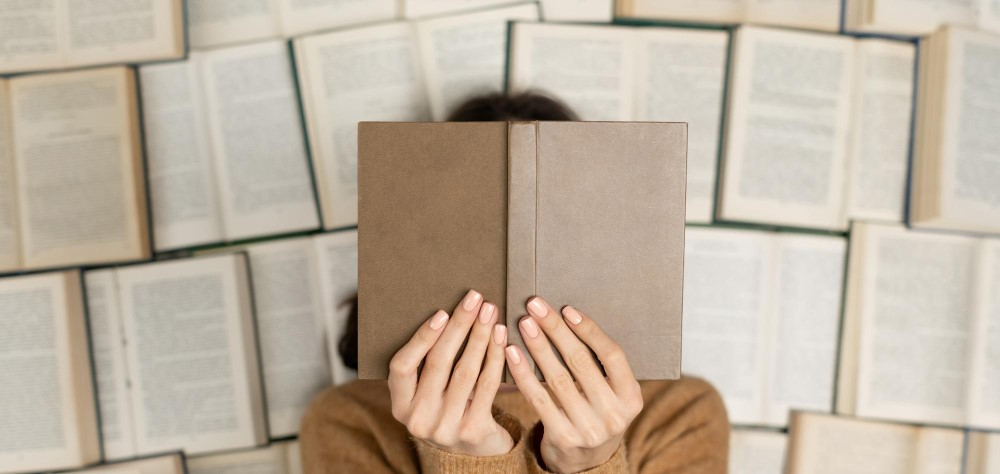
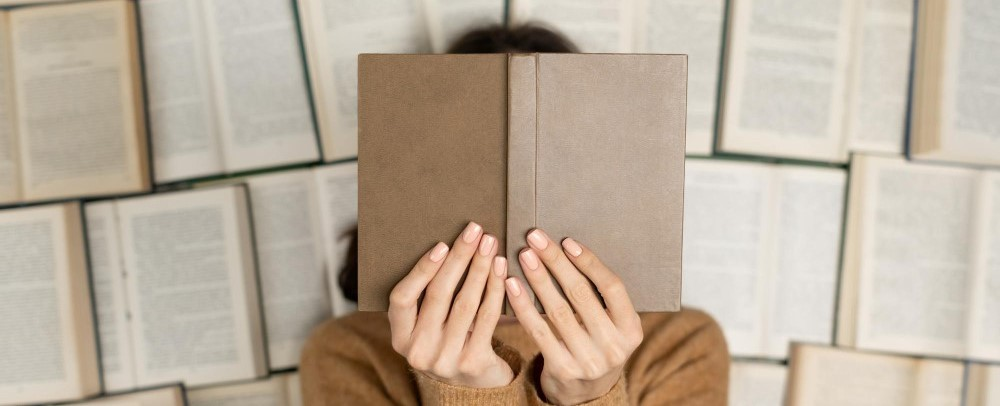
delete img

diff --git a/index.html b/index.html
@@ -30,7 +30,7 @@
               </button>
               <div class="offcanvas offcanvas-end" tabindex="-1" id="offcanvasDarkNavbar" aria-labelledby="offcanvasDarkNavbarLabel">
                 <div class="offcanvas-header">
-                  <h5 class="offcanvas-title" id="offcanvasDarkNavbarLabel">Menú</h5>
+                  <h6>Menú</h6>
                   <button type="button" class="btn-close" data-bs-dismiss="offcanvas" aria-label="Close"></button>
                 </div>
                 <div class="offcanvas-body">
@@ -66,9 +66,7 @@
     </div>
         <section id="portada">
             <p class="cuerpo" >Hermenéutica de un recuerdo es historia, experiencia, sentires y emociones. <br>
-                Es todo lo que va por dentro, como un río de lava, que hoy busca la salida, que busca expresarse, mostrarse.</p>
-                <p class="cuerpo">Es el mundo de una escritora escondida, en lo suburbano, que conoce tantos lugares que fueron creados con las palabras, los recuerdos y la imaginación. </p>
-                <p class="cuerpo">Te invitamos a descubrir su mundo, su poesia y su historia.</p>
+                Es todo lo que va por dentro, como un río de lava, que hoy busca la salida, que busca expresarse, mostrarse. Es el mundo de una escritora escondida, en lo suburbano, que conoce tantos lugares que fueron creados con las palabras, los recuerdos y la imaginación. <br>Te invitamos a descubrir su mundo, su poesia y su historia.</p>
         </section>
     
     <!--BREVE PRESENTACION DE LA AUTORA-->

diff --git a/css/style.css b/css/style.css
@@ -50,8 +50,18 @@ header .barraNav1 {
   color: #FF8551;
   font-family: jost-regular;
   font-size: 40px;
+  font-weight: bold;
   padding: 5px;
   margin: 5px;
+}
+header h6 {
+  color: #FF8551;
+  font-family: jost-regular;
+  font-size: 30px;
+  font-weight: bold;
+  text-align: center;
+  margin: 15px;
+  padding-left: 125px;
 }
 header .barraNav {
   text-decoration: none;
@@ -149,19 +159,14 @@ header .barraNav:hover {
 }
 
 .banner img {
-  width: 100vw;
-  height: 600px;
+  width: 100%;
+  height: 450px;
   object-fit: cover;
 }
 
 #portada {
   font-size: 24px;
-  background-color: #FFDEDE;
   padding: 10px;
-}
-
-h1 {
-  text-align: center;
 }
 
 .biografia {
@@ -175,8 +180,8 @@ h1 {
   grid-area: area2;
 }
 .biografia #carouselExample {
-  width: 100%;
-  height: 100%;
+  width: 90%;
+  height: auto;
   position: center;
   grid-area: area1;
 }
@@ -185,6 +190,11 @@ h1 {
   height: 90%;
   position: center;
   margin: 60px;
+}
+.biografia #carouselExample .carousel-inner img {
+  border-radius: 5%;
+  width: 80%;
+  height: auto;
 }
 
 .escritoss {
@@ -227,6 +237,22 @@ h1 {
 #creaciones #poemas #poemario {
   display: flex;
   gap: 70px;
+}
+
+#poema3 {
+  display: flex;
+}
+#poema3 img {
+  width: 25%;
+  height: auto;
+  border-radius: 8%;
+  padding: 15px;
+  margin: 15px;
+  transition: 1s;
+}
+#poema3 img:hover {
+  width: 30%;
+  height: auto;
 }
 
 .accordion-button {

diff --git a/pages/creaciones.html b/pages/creaciones.html
@@ -176,10 +176,8 @@
                     
             </section>
         </div>
-        <section>
-            <div>
-                <p></p>
-            </div>
+        <section id="poema3">
+          <img src="../multimedia/yo1.jpg" alt="mujer mirando hacia una ventana fumando un cigarro">
             <div>
                 <p class="subtitulo">Desencuentro</p>
                 <p class="escritoss">Siento que algo se ha roto entre nosotros. <br>
@@ -192,6 +190,8 @@
                     Y solo quiero retraerme, quiero volver hacia mi... <br>
                     Tal vez asi te busque nuevamente o nos perdamos para siempre.  </p>
             </div>
+    
+          
         </section>
       
         

diff --git a/pages/influencias.html b/pages/influencias.html
@@ -71,14 +71,6 @@
         <h2 class="subtitulo">Realismo Sucio</h2>
         <div id="realismossucio">
           <section>
-            <img
-              class="imagenes"
-              src="../multimedia/realismo.jpg"
-              alt="foto de la pagina de un libro de poesia de charles bukowski"
-            />
-          </section>
-
-          <section>
             <p class="cuerpo">
               El "realismo sucio" es un término que se utiliza para describir un
               estilo literario caracterizado por la representación cruda y

diff --git a/scss/layout/_biografia.scss b/scss/layout/_biografia.scss
@@ -11,8 +11,8 @@
         grid-area: area2;
     }
     #carouselExample{
-        width:100%;
-        height:100%;
+        width:90%;
+        height:auto;
         position:center;
         grid-area: area1;
         .carousel-inner{
@@ -20,6 +20,11 @@
             height:90%;
             position:center;
             margin:60px;
+            img{
+                border-radius: 5%;
+                width:80%;
+                height: auto;
+            }
         }
     
     }

diff --git a/scss/components/_navbar.scss b/scss/components/_navbar.scss
@@ -19,8 +19,18 @@ header{
         color: #FF8551;
         font-family:jost-regular;
         font-size: 40px;
+        font-weight: bold;
         padding:5px;
         margin:5px;
+    }
+    h6{
+        color: #FF8551;
+        font-family:jost-regular;
+        font-size: 30px;
+        font-weight: bold;
+        text-align: center;
+        margin:15px;
+        padding-left: 125px;
     }
     .barraNav{
         text-decoration: none;

diff --git a/scss/layout/_creaciones.scss b/scss/layout/_creaciones.scss
@@ -31,6 +31,21 @@
             }
         }
 }
+#poema3{
+    display: flex;
+    img {
+        width: 25%;
+        height: auto;
+        border-radius:8%;
+        padding:15px;
+        margin:15px;
+        transition:1s;
+      }
+      img:hover{
+        width: 30%;
+        height: auto;
+      }
+}
 
 .accordion-button{
     background-color:#9BCDD2;

diff --git a/scss/layout/_index.scss b/scss/layout/_index.scss
@@ -45,15 +45,11 @@
 }
 
 .banner img{
-    width: 100vw;
-    height: 600px;
+    width:100%;
+    height: 450px;
     object-fit:cover;
      }
 #portada{
-    font-size: 24px;
-    background-color: #FFDEDE; 
+    font-size: 24px; 
     padding: 10px;
-}
-h1{
-    text-align: center;
 }
